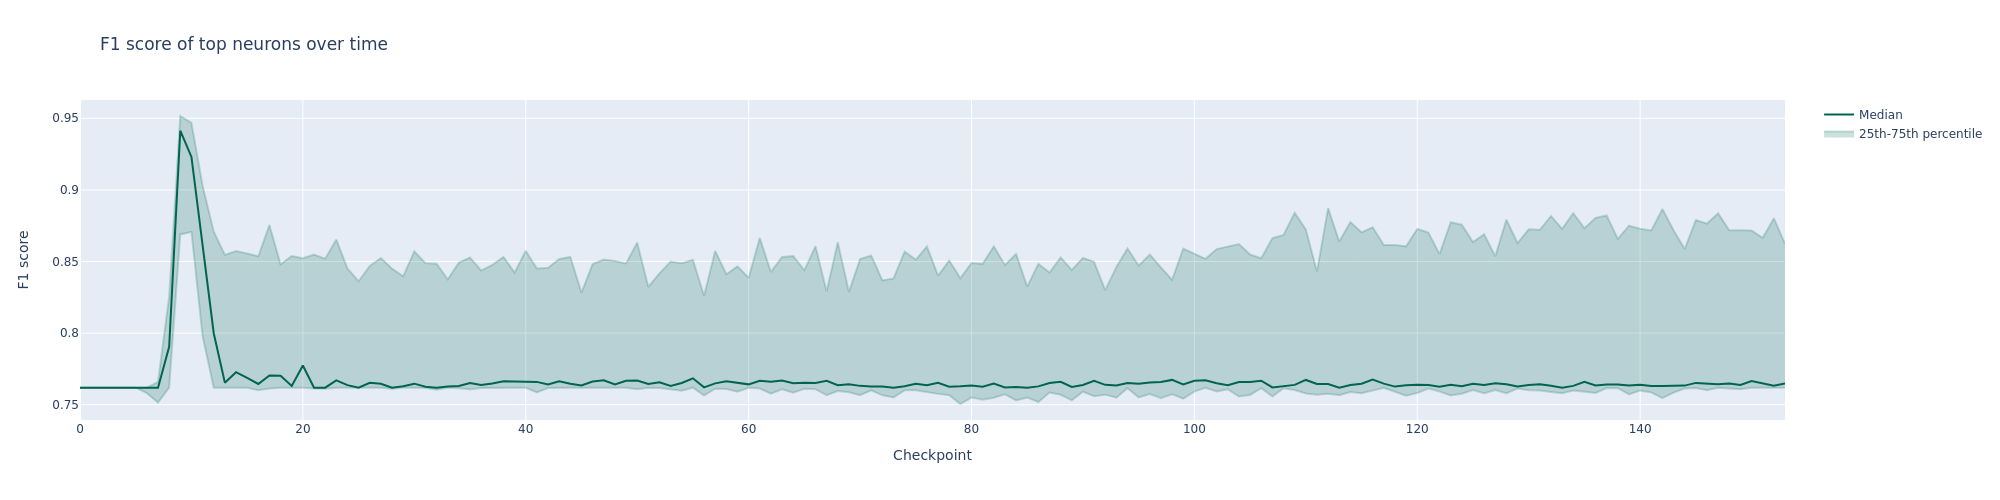
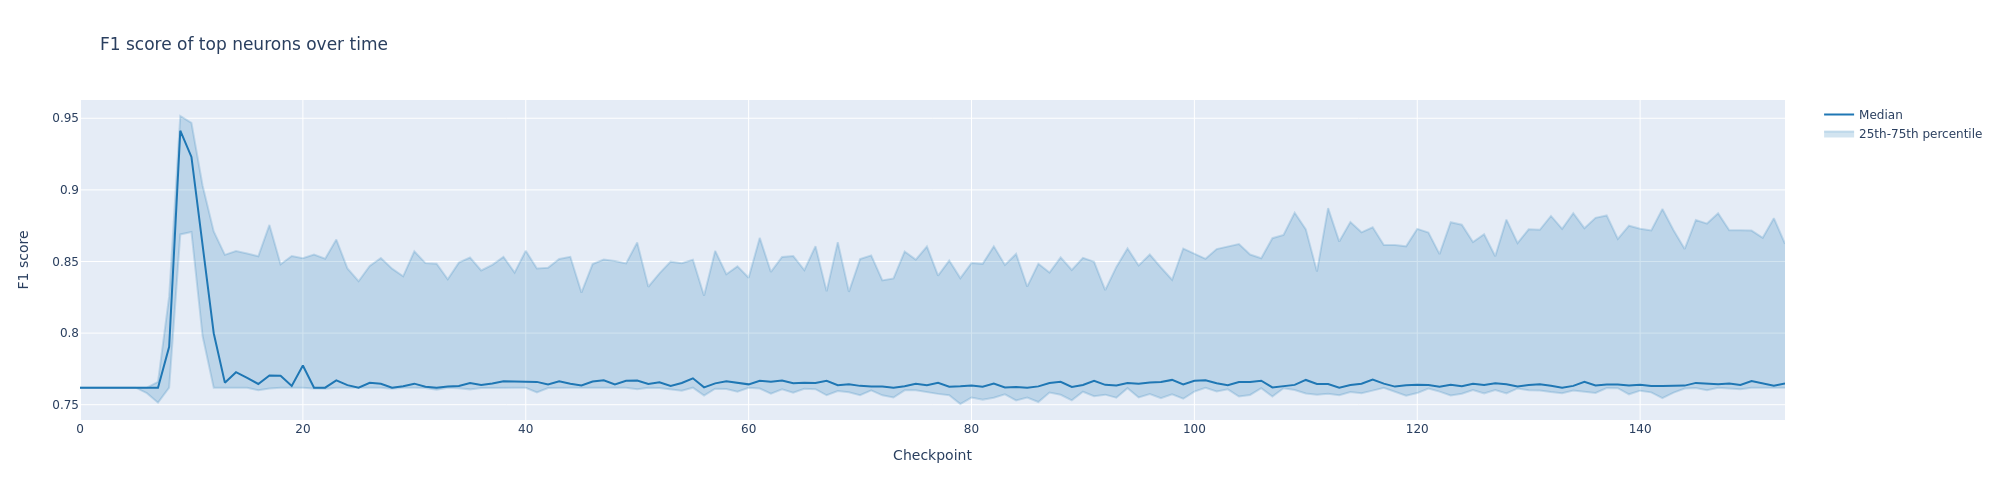
update f1 plot color

diff --git a/feature_formation_viz.py b/feature_formation_viz.py
@@ -74,25 +74,13 @@ def process_data(model_name: str, output_dir: Path, image_dir: Path) -> None:
     # Plot
     fig = go.Figure()
 
-    fig.add_trace(go.Scatter(x=grouped['Checkpoint'], y=grouped['25%'], fill=None, mode='lines', line_color='rgba(0,100,80,0.2)', showlegend=False))
-    fig.add_trace(go.Scatter(x=grouped['Checkpoint'], y=grouped['75%'], fill='tonexty', fillcolor='rgba(0,100,80,0.2)', line_color='rgba(0,100,80,0.2)', name="25th-75th percentile"))
-    fig.add_trace(go.Scatter(x=grouped['Checkpoint'], y=grouped['50%'], mode='lines', line=dict(color='rgb(0,100,80)', width=2), name="Median"))
+    fig.add_trace(go.Scatter(x=grouped['Checkpoint'], y=grouped['25%'], fill=None, mode='lines', line_color='rgba(31,119,180,0.2)', showlegend=False))
+    fig.add_trace(go.Scatter(x=grouped['Checkpoint'], y=grouped['75%'], fill='tonexty', fillcolor='rgba(31,119,180,0.2)', line_color='rgba(31,119,180,0.2)', name="25th-75th percentile"))
+    fig.add_trace(go.Scatter(x=grouped['Checkpoint'], y=grouped['50%'], mode='lines', line=dict(color='rgb(31,119,180)', width=2), name="Median"))
 
     fig.update_layout(title="F1 score of top neurons over time", xaxis_title="Checkpoint", yaxis_title="F1 score")
 
     fig.write_image(image_dir.joinpath("top_f1s_with_quartiles.png"), width=2000)
-
-    def get_mean_non_german(df, neuron, layer, checkpoint):
-        label = f"C{checkpoint}L{layer}N{neuron}"
-        df = df[df["Label"] == label]["MeanNonGermanActivation"].item()
-        return df
-
-    def get_mean_german(df, neuron, layer, checkpoint):
-        label = f"C{checkpoint}L{layer}N{neuron}"
-        df = df[df["Label"] == label]["MeanGermanActivation"].item()
-        return df
-
-    get_mean_non_german(probe_df, 669, 3, 140)
 
     layer_vals = np.random.randint(0, model.cfg.n_layers, good_mcc_neurons.size)
     neuron_vals = np.random.randint(0, model.cfg.d_mlp, good_mcc_neurons.size)
